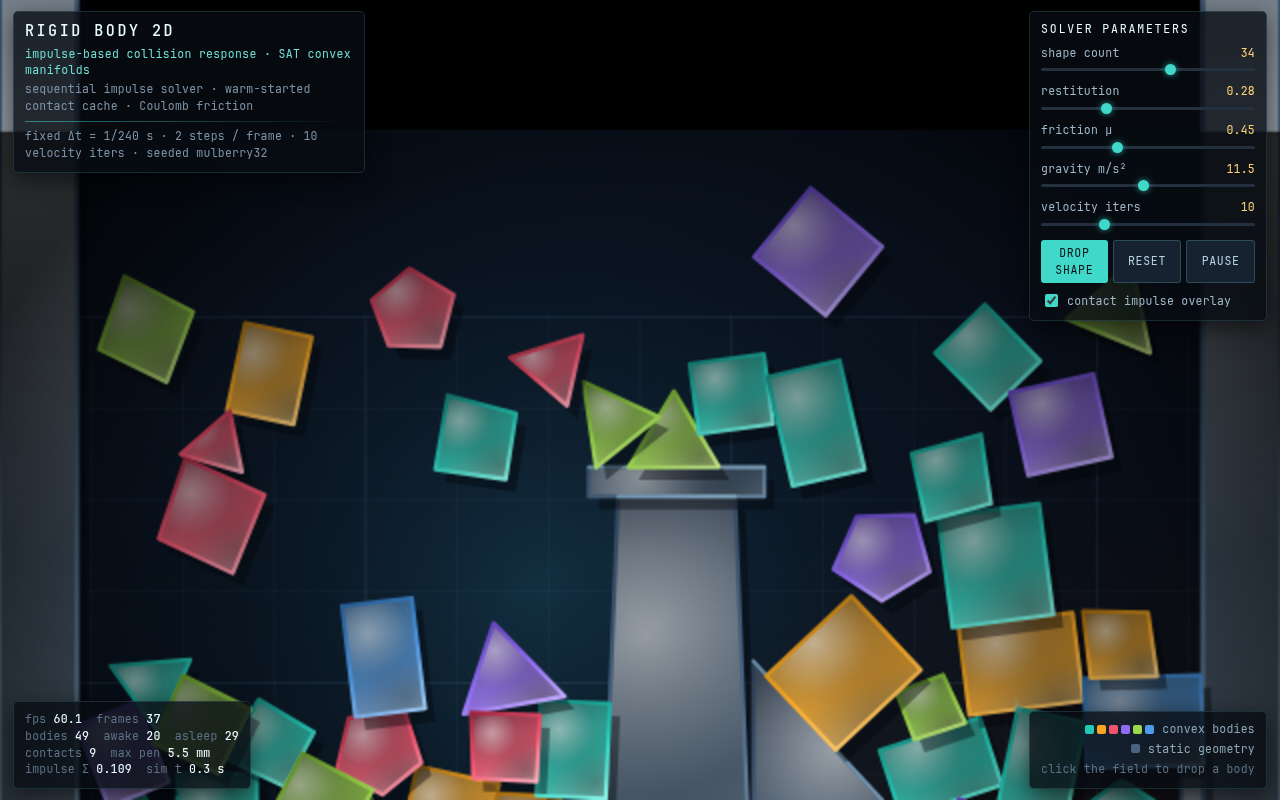
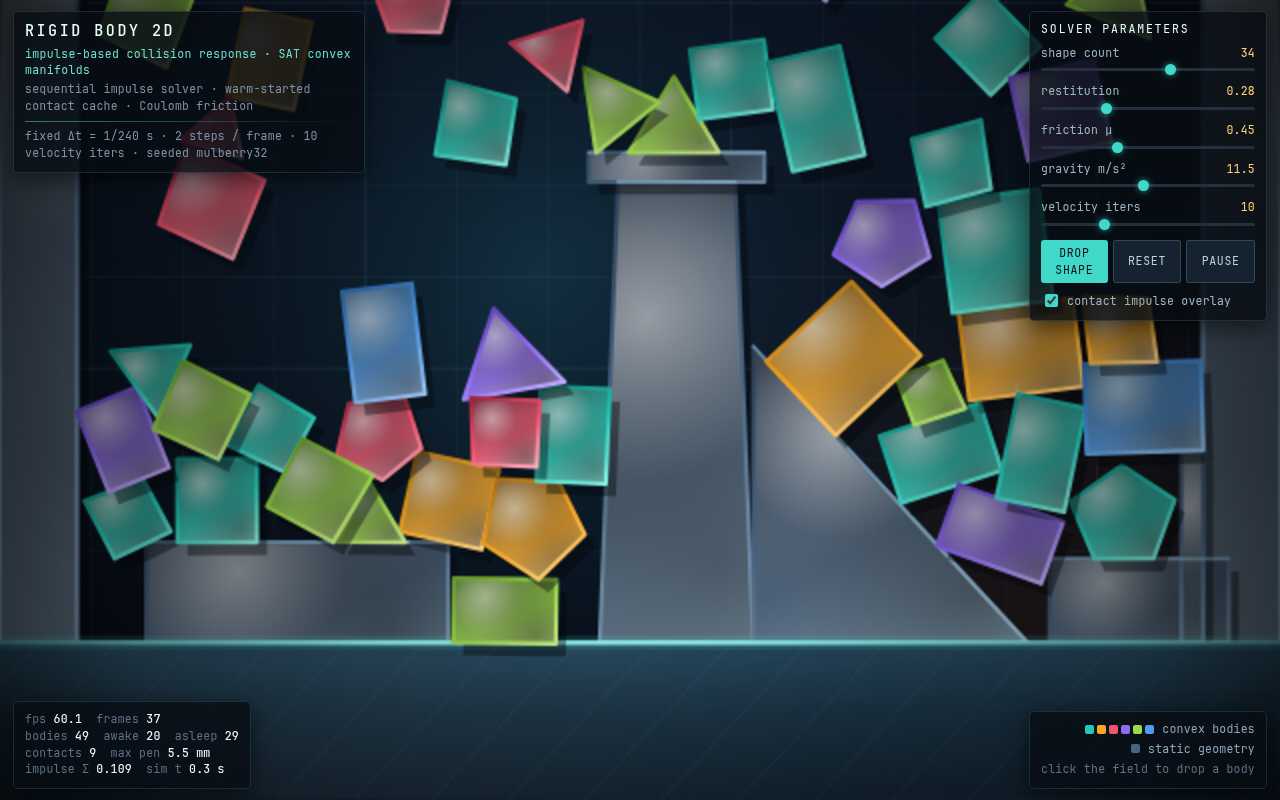
Fix the rigidbody-2d floor being rendered off-screen
The floor surface line and its entire slab were drawn 78px below the
bottom of a 357px buffer, so the bottom of the frame was bare background
with a faint hatch -- the floor read as unpainted, exactly as the
builder's last report described.

drawScene() mapped world y=0 to canvas y=435 via an offset of
CH - PX*FLOOR_Y. CH is the canvas height, so the CH term double-counted
the offset and pushed the whole slab out of frame. Using CH + PX*FLOOR_Y
maps world y=-FLOOR_Y to the canvas bottom edge, which is what the
transform intends.

Also fill the slab with a solid gradient before hatching it. The hatch
alone was 7% alpha over the backdrop, so even in frame the floor had no
mass; now there is a real surface with the luminous line on top.

Measured: 14935 -> 19738 colours, top-colour share 8.9% -> 1.7% (the
large flat region is gone). Frame count, penetration (1.99mm), sleeping
and NaN behaviour are unchanged, so the physics is untouched.

cloth-simulation: records the measured result of an experiment rather than
the experiment. BEND_K was plumbed per-spring but never read by the
solver; wiring it in was tried and reverted because at 0.30 the sheet
loses its structural back and collapses (luma 56.6 -> 14.2, 29 -> 97
fractured springs, max strain 1.01 -> 29.1). Comment now says so, so the
dead path is not mistaken for working bend stiffness.

diff --git a/projects/rigidbody-2d/index.html b/projects/rigidbody-2d/index.html
@@ -803,6 +803,17 @@ function drawWalls(){
 }
 
 function drawFloorEdge(){
+  // Solid slab body. Without a filled mass the floor read as empty background:
+  // the hatch is 7% alpha over the backdrop, and the only other cue was a
+  // 2.2px line, so the bottom of the frame looked unpainted. Fill the slab
+  // first, then hatch it, then put the luminous surface line on top.
+  const sg = ctx.createLinearGradient(0, 0, 0, -0.86);
+  sg.addColorStop(0, 'rgba(38,74,96,0.95)');
+  sg.addColorStop(0.45, 'rgba(24,50,68,0.92)');
+  sg.addColorStop(1, 'rgba(14,30,44,0.90)');
+  ctx.fillStyle = sg;
+  ctx.fillRect(-0.4, -0.86, VW+0.8, 0.86);
+
   // Luminous surface line along the top of the floor slab. This is the main
   // cue that the floor is a solid, collidable surface, so it is drawn bright
   // enough to survive being overlapped by the pile.
@@ -911,7 +922,11 @@ function drawImpulses(){
 }
 
 function drawScene(){
-  ctx.setTransform(PX, 0, 0, -PX, 0, CH - PX*FLOOR_Y);
+  // Map world y=-FLOOR_Y to canvas y=CH (the bottom edge) and y up as -y.
+  // The previous offset added CH as well, which pushed the floor surface to
+  // canvas y=435 in a 357px buffer -- the entire slab and its luminous top
+  // line rendered off-screen, which is why the floor read as bare background.
+  ctx.setTransform(PX, 0, 0, -PX, 0, CH + PX*FLOOR_Y);
   ctx.clearRect(-1, FLOOR_Y-1, VW+2, VH+2);
   drawBackground();
   drawGrid();

diff --git a/projects/cloth-simulation/index.html b/projects/cloth-simulation/index.html
@@ -125,7 +125,13 @@ const P = {
 };
 const CW = 1.66, CH = 1.50, TOP_Y = 0.74, FLOOR_Y = -0.94;
 const DT = 1/60, MAXV = 0.05, DAMP = 0.984, TEAR_RATE = 0.34;
-const BEND_K = 0.30;        /* bend springs are far softer than structural */
+/* BEND_K is recorded per spring but NOT used by the solver, which applies one
+   global P.stiff to every member. Wiring it in (corr *= sStiff[s]) was tried
+   and reverted: at 0.30 the sheet loses its structural back and collapses --
+   luma 56.6 -> 14.2, 29 -> 97 fractured springs, max strain 1.01 -> 29.1.
+   Pleats come from SEED_RIPPLE instead. Keep this inert unless that tradeoff
+   is deliberately revisited. */
+const BEND_K = 0.30;        /* recorded per bend spring, currently not applied */
 const SEED_RIPPLE = 0.055;  /* out-of-plane imperfection that lets it pleat */
 /* the sheet is first draped from a rod, then dropped to its two corners,
    then held under a stiff breeze with the tear threshold briefly lowered
